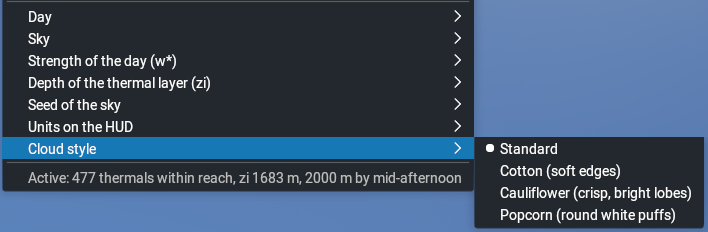
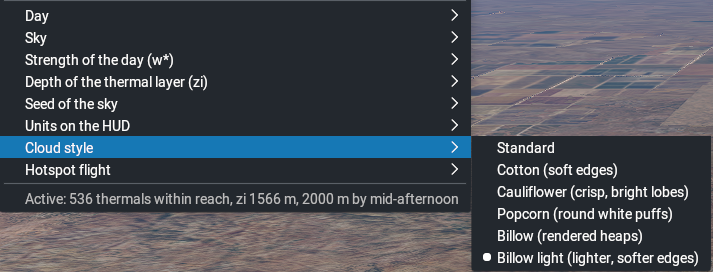
Cloud style picture with the six styles of 1.2
The submenu's picture still showed four styles with Standard ticked.
Taken in X-Plane 12.4.3 with 1.2 installed from the zip, default
settings, no styles of the pilot's: Billow light ticked.

diff --git a/docs/cloud-styles.md b/docs/cloud-styles.md
@@ -4,7 +4,7 @@ A cloud style sets how XP-Gliding's cumulus look, the way a livery sets how an a
 
 *Plugins → XP-Gliding → Cloud style* lists the styles found when X-Plane starts. The one ticked is the one drawn. Choosing another replaces the clouds at once, and new ones fill in over a few seconds. The choice is saved. The command `xp_gliding/clouds/style/next` steps to the next style; bound to a key in X-Plane's keyboard settings, it compares styles in flight.
 
-![The Cloud style submenu of Plugins → XP-Gliding, with Standard ticked above Cotton (soft edges), Cauliflower (crisp, bright lobes) and Popcorn (round white puffs)](images/menu-cloud-style.png)
+![The Cloud style submenu of Plugins → XP-Gliding: Standard, Cotton (soft edges), Cauliflower (crisp, bright lobes), Popcorn (round white puffs), Billow (rendered heaps) and Billow light (lighter, softer edges), the default, ticked](images/menu-cloud-style.png)
 
 ## Installing a style
 
